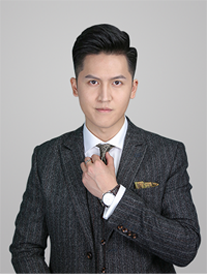
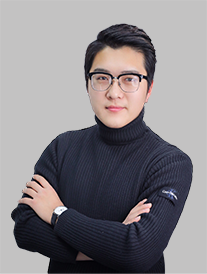
定制爱情模块更新导师图片及文字描述;

diff --git a/views/custom-love.html b/views/custom-love.html
@@ -399,10 +399,9 @@
         <div class="item">
             <img src="images/custom-love/module06-pic01.png" alt="">
             <div class="txt-group">
-                <p class="mentor-name">嘉伟导师</p>
+                <p class="mentor-name">诺亚导师</p>
                 <p class="mentor-des">
-                    橘子情感创始人，国内情感行业首批从业者，行业标准及理论化的制定和
-                    开创者，情感管理培训倡导者和实践者。
+                    精准把握女性心理，帮助学员分析目标的心理，擅长心态建设，通过与目标的聊天互动建立吸引力。能够帮助学员在挽回过程中进行心态调整和魅力提升。
                 </p>
             </div>
         </div>
